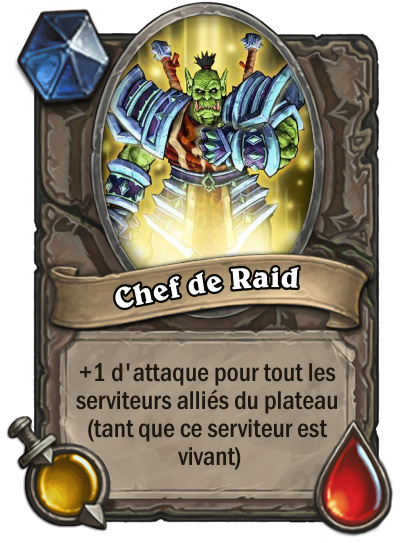
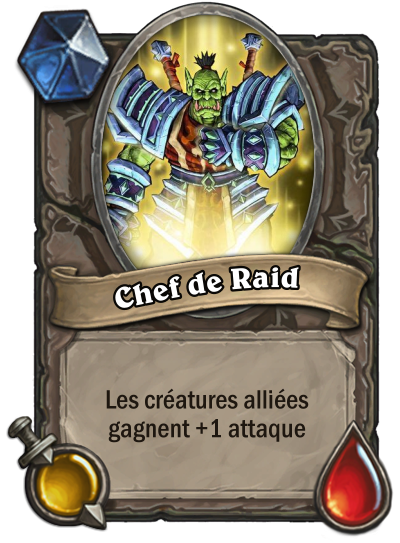
Ajout gestion buff

Changed region(s): [[0.18, 0.6483, 0.84, 0.884]]

diff --git a/frontend/src/app/app.component.ts b/frontend/src/app/app.component.ts
@@ -165,7 +165,15 @@ export class Player {
 		this.hand.delete(cardId);
 		
 		// On applique les boosts
-		
+		this.board.forEach((value: CardMinion, key: string) => {
+			if(card.boosts.has("damage")) {
+				value.boostDamage(card.boosts.get("damage"));
+			}
+			if(card.boosts.has("health")) {
+				value.boostDamage(card.boosts.get("health"));
+			}
+		})
+
 		this.board.set(cardId, card);
 	}
 	

diff --git a/frontend/src/app/lobby/lobby.component.html b/frontend/src/app/lobby/lobby.component.html
@@ -44,7 +44,7 @@
 									</div>
 									<br /><br />
 
-								<button id="send-name" class="btn btn-default" type="submit" (click)="sendName()">Send</button>
+								<button id="send-name" class="btn btn-default" type="submit" (click)="sendName()">Envoyer</button>
 							</div>
 							
 						</form>
